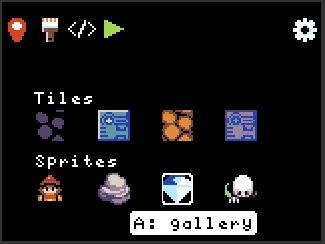
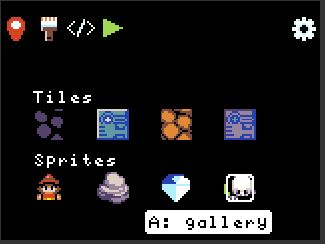
add gallery shot

diff --git a/manual.md b/manual.md
@@ -24,15 +24,23 @@ The load screen of TileWorld lets you select one of four games to program and pl
 
 # Game Home Screen {#gamehome}
 
-When you load a game, you will see the game's home screens, as shown below. You have four kinds of tiles and four kinds of sprites to work with. Here we give  a broad overview of the different screens available in TileWorld.
+When you load a game, you will see the game's home screen, as shown below.
 
 ![home page](pics/homePage1.JPG)
 
-## Help and Art Gallery
-
-Move the cursor around the screen to get help about all the features available. You can visit the art gallery to change the art associated with each kind of tile or sprite. Once you get used to the features available in TileWorld, you can turn off the help suggestions via the gear wheel on your game's home page. 
+You have four kinds of tiles and four kinds of sprites to work with. Let's take a quick tour through the various screens you can get to from the home screen. Move the cursor around the screen to get help about all the features available. Let's visit the art gallery to change the art associated with the fourth sprite (the skull).
 
 ![help cursor](pics/helpGallery.JPG)
+
+## Gallery
+
+We've moved the cursor to the puppy dog and selected it (A button) 
+
+![gallery](pics/galleryPuppy.JPG)
+
+Now, when we return to the game home screen, we can see the skull has been replaced by the puppy:
+
+![updated with puppy](pics/homePage1.JPG)
 
 ## Menu bar
 
@@ -55,6 +63,11 @@ The coding page shows the four kinds of sprites on the left and the different ty
 ## Play Game
 
 The play button runs your game in full screen mode. Press B to exit the game. 
+
+## Settings
+
+Once you get used to the features available in TileWorld, you can turn off the help suggestions via the gear wheel on your game's home page. 
+
 
 # Coding in TileWorld {#coding}
 
